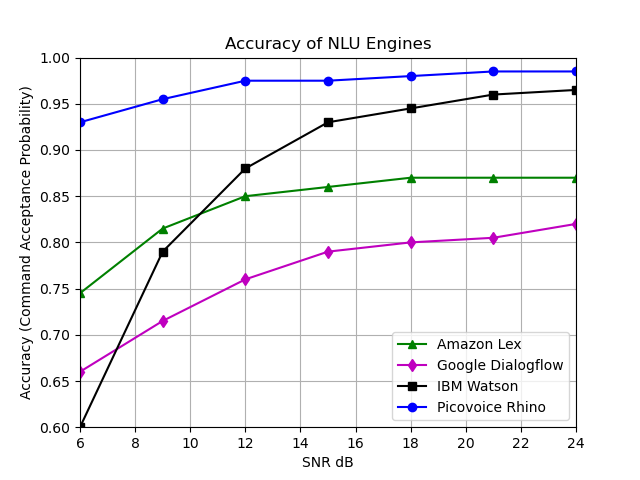
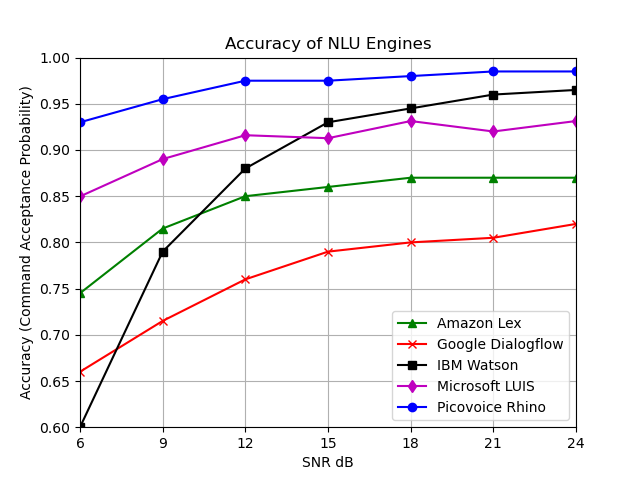
added comparison to microsoft luis (#12)

diff --git a/benchmark/benchmark.py b/benchmark/benchmark.py
@@ -11,7 +11,8 @@ def _path(x):
 
 if __name__ == "__main__":
     parser = argparse.ArgumentParser()
-    parser.add_argument('--engine_type', choices=['AMAZON_LEX', 'GOOGLE_DIALOGFLOW', 'PICOVOICE_RHINO', 'IBM_WATSON'],
+    parser.add_argument('--engine_type', choices=['AMAZON_LEX', 'GOOGLE_DIALOGFLOW', 'IBM_WATSON', 'MICROSOFT_LUIS',
+                                                  'PICOVOICE_RHINO'],
                         required=True)
     parser.add_argument('--gcp_credential_path', required=('GOOGLE_DIALOGFLOW' in argv))
     parser.add_argument('--gcp_project_id', required=('GOOGLE_DIALOGFLOW' in argv))
@@ -39,6 +40,13 @@ if __name__ == "__main__":
                         args_dict['nlu_apikey'] = value
                     elif key == 'NATURAL_LANGUAGE_UNDERSTANDING_URL':
                         args_dict['nlu_url'] = value
+
+    if args.engine_type == 'MICROSOFT_LUIS':
+        with open(_path('data/luis/credentials.env')) as f:
+            for line in f:
+                if len(line.strip()) > 0:
+                    key, value = line.strip().split('=', maxsplit=1)
+                    args_dict[key] = value
 
     engine = NLUEngine.create(**args_dict)
     print('created %s engine' % str(engine))

diff --git a/benchmark/plot.py b/benchmark/plot.py
@@ -13,6 +13,10 @@ ibm_cafe = np.array([0.51, 0.76, 0.85, 0.93, 0.95, 0.96, 0.97])
 ibm_kitchen = np.array([0.69, 0.82, 0.91, 0.93, 0.94, 0.96, 0.96])
 ibm = (ibm_cafe + ibm_kitchen) / 2.
 
+luis_cafe = np.array([0.835218, 0.875606, 0.912763, 0.911147, 0.925687, 0.907916, 0.927302])
+luis_kitchen = np.array([0.864297, 0.904685, 0.919225, 0.914378, 0.936995, 0.932149, 0.935380])
+luis = (luis_cafe + luis_kitchen) / 2.
+
 pv_cafe = np.array([0.90, 0.94, 0.97, 0.97, 0.97, 0.98, 0.98])
 pv_kitchen = np.array([0.96, 0.97, 0.98, 0.98, 0.99, 0.99, 0.99])
 pv = (pv_cafe + pv_kitchen) / 2.
@@ -22,6 +26,7 @@ snr = [6, 9, 12, 15, 18, 21, 24]
 plt.plot(snr, aws, color='g', marker='^', label='Amazon Lex')
 plt.plot(snr, df, color='r', marker='x', label='Google Dialogflow')
 plt.plot(snr, ibm, color='k', marker='s', label='IBM Watson')
+plt.plot(snr, luis, color='m', marker='d', label='Microsoft LUIS')
 plt.plot(snr, pv, color='b', marker='o', label='Picovoice Rhino')
 plt.xlim(6, 24)
 plt.xlabel('SNR dB')
@@ -29,5 +34,6 @@ plt.ylim(0.6, 1)
 plt.ylabel('Accuracy (Command Acceptance Probability)')
 plt.xticks([6, 9, 12, 15, 18, 21, 24])
 plt.legend()
+plt.title("Accuracy of NLU Engines")
 plt.grid()
 plt.show()

diff --git a/README.md b/README.md
@@ -9,7 +9,7 @@ enabled coffee maker. You can listen to one of the sample commands [here](/data/
 In order to simulate the real-life situations we have tested in two noisy conditions (1) Cafe and (2) Kitchen. You can listen
 to samples of noisy data [here](/data/misc/noisy1.wav) and [here](/data/misc/noisy2.wav).
 
-Additionally we compare the accuracy of rhino with [Google Dialogflow](https://dialogflow.com/), [Amazon Lex](https://aws.amazon.com/lex/), and [IBM Watson](https://www.ibm.com/watson).
+Additionally we compare the accuracy of rhino with [Google Dialogflow](https://dialogflow.com/), [Amazon Lex](https://aws.amazon.com/lex/), [IBM Watson](https://www.ibm.com/watson) and [Microsoft LUIS](https://www.luis.ai/).
 
 # Data
 
@@ -43,7 +43,7 @@ Create accuracy results for running the noisy spoken commands through a NLU engi
 python benchmark/benchmark.py --engine_type ${AN_ENGINE_TYPE} --noise ${NOISE}
 ```
 
-The valid options for the `engine_type` parameter are: `AMAZON_LEX`, `GOOGLE_DIALOGFLOW`, and `PICOVOICE_RHINO`, `IBM_WATSON`.
+The valid options for the `engine_type` parameter are: `AMAZON_LEX`, `GOOGLE_DIALOGFLOW`, `IBM_WATSON`, `MICROSOFT_LUIS` and `PICOVOICE_RHINO`.
 
 In order to run the noisy spoken commands through Dialogflow API, include your Google Cloud Platform credential path and Google Cloud Platform project ID like the following
 ```bash
@@ -57,11 +57,13 @@ will be created for you.
 python benchmark/benchmark.py --engine_type IBM_WATSON --ibm_credential_path ${IBM_CREDENTIAL_PATH} --ibm_model_id ${IBM_MODEL_ID} --noise ${NOISE}
 ```
 
+Before running noisy spoken commands through Microsoft LUIS, add your LUIS credentials and Speech credentials into `/data/luis/credentials.env`.
+
 # Results
 
 Below is the result of benchmark. Command Acceptance Probability (Accuracy) is defined as the probability of the engine
 to correctly understand the speech command.  
-The Amazon Lex bot, Google Dialogflow agent, and IBM Watson model used to produce these results were
+The Amazon Lex bot, Google Dialogflow agent, IBM Watson model and LUIS app used to produce these results were
 all trained on all 432 sample utterances.
 
 ![](data/misc/result.png)
